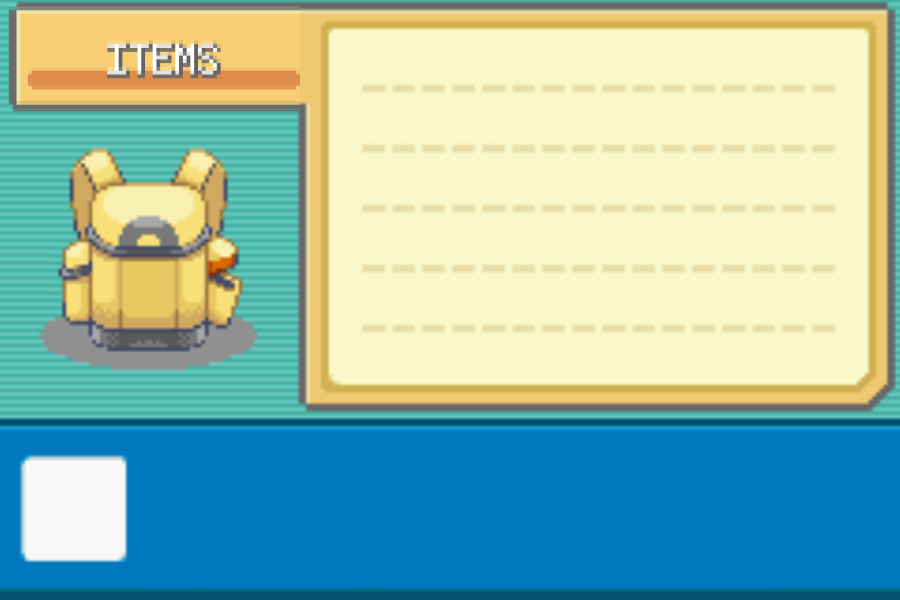
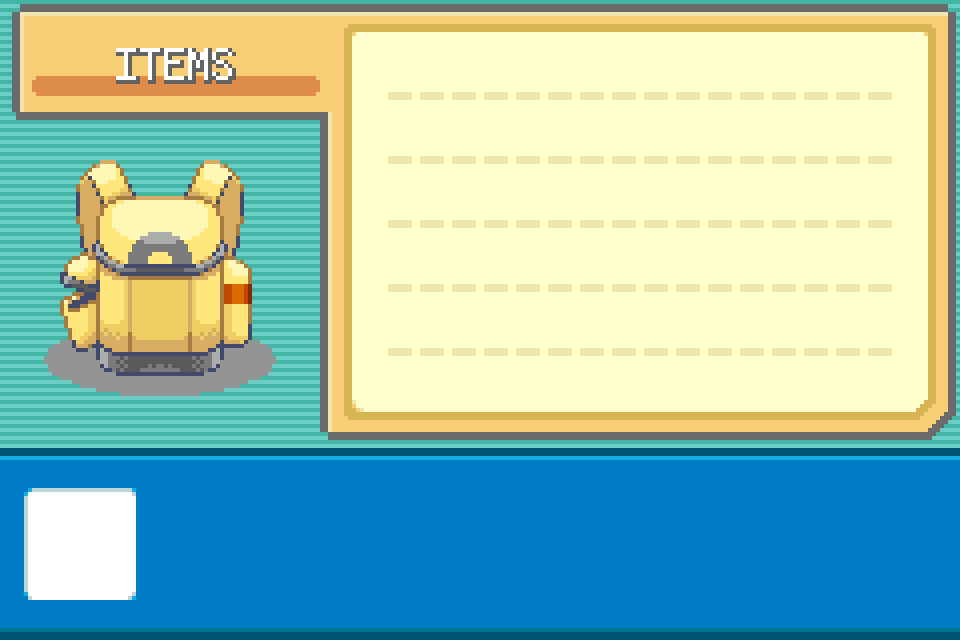
Atualizar tamanhos na classe Bag

Changed region(s): [[0.0, 0.0, 1.0, 0.72], [0.0, 0.75, 0.1556, 0.99], [0.8711, 0.96, 1.0, 0.99]]

diff --git a/Bag.java b/Bag.java
@@ -16,8 +16,8 @@ import javax.swing.event.ListSelectionListener;
 public class Bag extends JPanel {
     JLabel background = new JLabel();
     Font Fonte = DefinirFonte.fonte();
-    private JButton useButton = editarBotao("USE", 663, 450);
-    private JButton cancelButton = editarBotao("CANCEL", 663, 510);
+    private JButton useButton = editarBotao("USE", 715, 485);
+    private JButton cancelButton = editarBotao("CANCEL", 715, 545);
     JLabel item;
     JLabel imgItem;
 
@@ -47,7 +47,7 @@ public class Bag extends JPanel {
 
     public JLabel itemAtual() {
         JLabel itemAtual = new JLabel();
-        itemAtual.setBounds(15, 460, 98, 98);
+        itemAtual.setBounds(30, 495, 96, 96);
 
         return itemAtual;
     }
@@ -87,7 +87,7 @@ public class Bag extends JPanel {
         listaDeItens.setBackground(new Color(0, 0, 0, 0)); // Tornando a JList transparente
         
         JScrollPane scrollPane = new JScrollPane(listaDeItens);
-        scrollPane.setBounds(340, 30, 520, 350);
+        scrollPane.setBounds(360, 40, 560, 365);
         scrollPane.getViewport().addChangeListener((e) -> scrollPane.getParent().repaint());
 
         scrollPane.addMouseWheelListener(new MouseWheelListener() {
@@ -97,7 +97,7 @@ public class Bag extends JPanel {
         });
 
         item = new JLabel();
-        item.setBounds(180, 460, 400, 100);
+        item.setBounds(200, 490, 400, 100);
         item.setFont(Fonte.deriveFont(Font.PLAIN,50f));
         imgItem = itemAtual();
         background.add(imgItem);

diff --git a/GameBag.java b/GameBag.java
@@ -7,10 +7,10 @@ public class GameBag extends JFrame implements Runnable {
 
     public void editar() {
         setDefaultCloseOperation(JFrame.EXIT_ON_CLOSE);
-        setSize(915, 640);
+        setSize(976, 684);
         setResizable(false);
         setLocationRelativeTo(null);
-        // add(new Home());
+        // add(new Bag());
 
         setVisible(true);
     }
